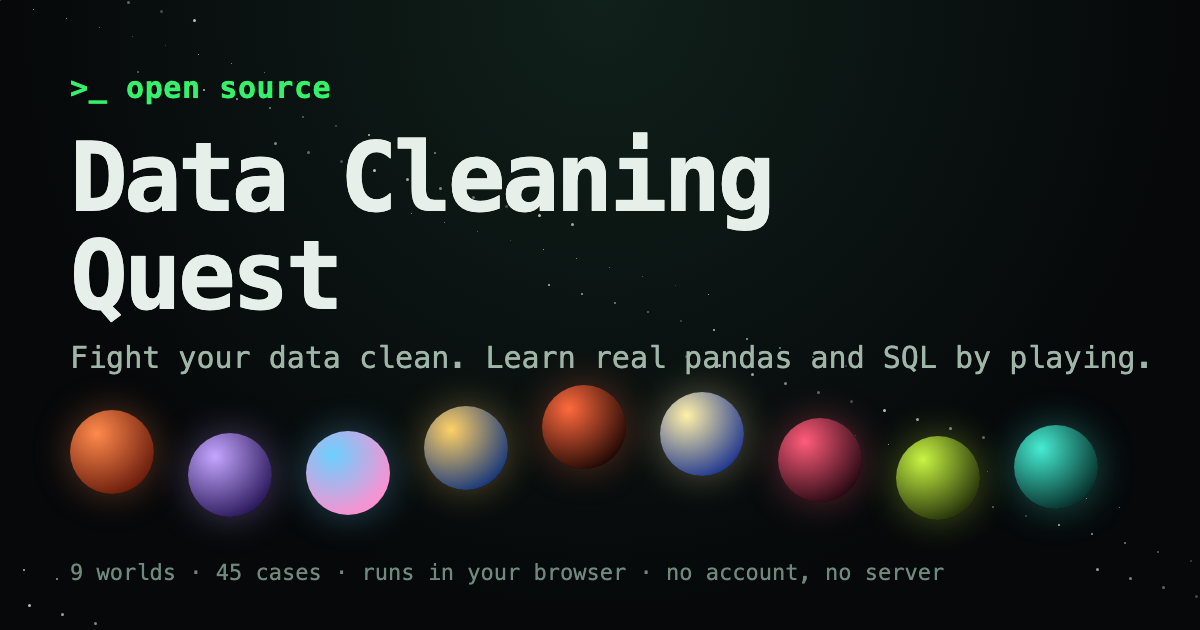
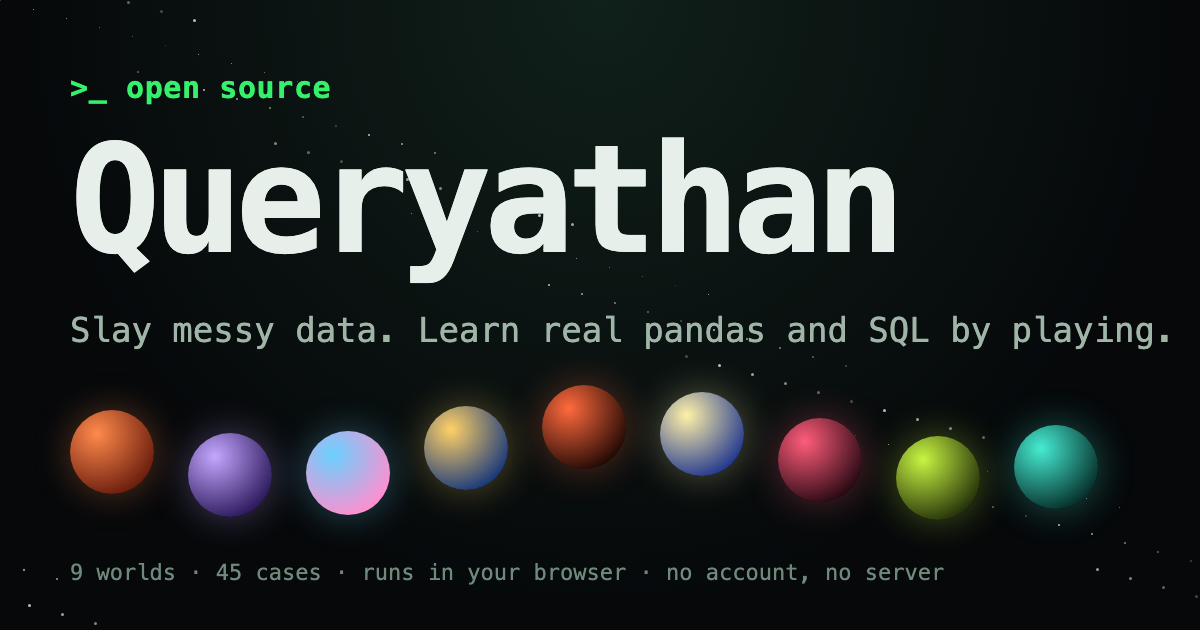
chore: rename the project to Queryathan (query + leviathan): app, docs, share images, package and repo links

Changed region(s): [[0.0617, 0.2111, 0.9867, 0.6032]]

diff --git a/apps/web/src/worlds/boss-fights/AboutDialog.tsx b/apps/web/src/worlds/boss-fights/AboutDialog.tsx
@@ -73,7 +73,7 @@ export default function AboutDialog({ onClose, onStart }: AboutDialogProps) {
       >
         <div className={styles.header}>
           <h2 id="about-title" className={styles.title}>
-            What is Data Cleaning Quest?
+            What is Queryathan?
           </h2>
           <button
             ref={closeRef}
@@ -90,12 +90,12 @@ export default function AboutDialog({ onClose, onStart }: AboutDialogProps) {
           className={styles.body}
           tabIndex={0}
           role="region"
-          aria-label="About Data Cleaning Quest"
+          aria-label="About Queryathan"
         >
           <p className={styles.lead}>
-            A free game that teaches you to clean messy data by writing real Python
-            (pandas) or SQL. Everything runs in your browser. There is no account, and
-            nothing you load is uploaded.
+            Queryathan (query + leviathan) is a free game that teaches you to clean and
+            analyse messy data by writing real Python (pandas) or SQL. Everything runs in
+            your browser. There is no account, and nothing you load is uploaded.
           </p>
 
           <section aria-labelledby="about-why">

diff --git a/apps/web/index.html b/apps/web/index.html
@@ -12,14 +12,14 @@
     <link rel="manifest" href="/manifest.webmanifest" />
     <link rel="apple-touch-icon" href="/apple-touch-icon.png" />
     <meta property="og:type" content="website" />
-    <meta property="og:title" content="Data Cleaning Quest: fight your data clean" />
+    <meta property="og:title" content="Queryathan: fight your data clean" />
     <meta
       property="og:description"
       content="Learn real pandas and SQL by playing. Nine planet worlds, 45 cases, everything runs in your browser."
     />
     <meta property="og:image" content="/og.png" />
     <meta name="twitter:card" content="summary_large_image" />
-    <title>Data Cleaning Quest</title>
+    <title>Queryathan</title>
   </head>
   <body>
     <div id="root"></div>

diff --git a/apps/web/src/worlds/boss-fights/WorldSelectScreen.tsx b/apps/web/src/worlds/boss-fights/WorldSelectScreen.tsx
@@ -81,7 +81,7 @@ function WorldCard({
   );
 }
 
-const REPO_URL = "https://github.com/Yuvakunaal/data-cleaning-quest";
+const REPO_URL = "https://github.com/Yuvakunaal/queryathan";
 const ABOUT_KEY = "dcq.aboutSeen";
 
 function readAboutSeen(): boolean {
@@ -133,7 +133,7 @@ export default function WorldSelectScreen({
             <span className={styles.brandMark} aria-hidden="true">
               &gt;_
             </span>
-            Data Cleaning Quest
+            Queryathan
           </span>
           <div className={styles.topRight}>
             <button type="button" className={styles.aboutLink} onClick={openAbout}>

diff --git a/apps/web/e2e/travel.e2e.ts b/apps/web/e2e/travel.e2e.ts
@@ -27,7 +27,7 @@ test("the flight can be skipped with the button or the keyboard", async ({ page 
   await expect(page.getByRole("heading", { name: "Geminora" })).toBeVisible();
   await expect(page.getByRole("dialog")).toHaveCount(0);
 
-  await page.getByRole("button", { name: "Data Cleaning Quest" }).click();
+  await page.getByRole("button", { name: "Queryathan" }).click();
   await page.locator('[data-world-card="the-foundry"]').click();
   await expect(
     page.getByRole("dialog", { name: /Travelling to Cinderforge/ }),

diff --git a/apps/web/e2e/smoke.e2e.ts b/apps/web/e2e/smoke.e2e.ts
@@ -39,7 +39,7 @@ test.describe("What is this?", () => {
     await expect(page.getByText("Start here")).toBeVisible();
     const opener = page.getByRole("button", { name: /What is this\?/ }).nth(1);
     await opener.click();
-    const dialog = page.getByRole("dialog", { name: /What is Data Cleaning Quest/ });
+    const dialog = page.getByRole("dialog", { name: /What is Queryathan/ });
     await expect(dialog).toBeVisible();
     for (const heading of [
       "Why clean data?",

diff --git a/apps/web/src/worlds/boss-fights/BossFightScreen.tsx b/apps/web/src/worlds/boss-fights/BossFightScreen.tsx
@@ -1362,7 +1362,7 @@ export default function BossFightScreen({
           getSolution={() => {
             const code = codeEditorRef.current?.getValue() ?? "";
             const mark = engine === "sql" ? "--" : "#";
-            return `${mark} Data Cleaning Quest: ${caseData.strings.title}\n${code}\n`;
+            return `${mark} Queryathan: ${caseData.strings.title}\n${code}\n`;
           }}
           onContinue={() => {
             setShowVictory(false);

diff --git a/apps/web/e2e/editor.e2e.ts b/apps/web/e2e/editor.e2e.ts
@@ -221,7 +221,7 @@ test.describe("the win sequence", () => {
     await expect(dialog).toContainText("Copied your solution");
     const copied = await page.evaluate(() => navigator.clipboard.readText());
     expect(copied).toContain(code);
-    expect(copied.startsWith("# Data Cleaning Quest:")).toBe(true);
+    expect(copied.startsWith("# Queryathan:")).toBe(true);
   });
 
   test("a speed job earns a stamp that the roster keeps", async ({ page }) => {

diff --git a/apps/web/src/ErrorBoundary.tsx b/apps/web/src/ErrorBoundary.tsx
@@ -19,7 +19,7 @@ export default class ErrorBoundary extends Component<{ children: ReactNode }, St
 
   override componentDidCatch(error: Error, info: ErrorInfo): void {
     // Kept for anyone with the console open; nothing is sent anywhere.
-    console.error("Data Cleaning Quest hit an error", error, info.componentStack);
+    console.error("Queryathan hit an error", error, info.componentStack);
   }
 
   override render(): ReactNode {

diff --git a/apps/web/e2e/navigation.e2e.ts b/apps/web/e2e/navigation.e2e.ts
@@ -12,7 +12,7 @@ test("the browser's Back and Forward buttons move between screens", async ({ pag
   await expect(
     page.getByRole("heading", { name: /Fight your data clean/ }),
   ).toBeVisible();
-  await expect(page).toHaveTitle("Data Cleaning Quest");
+  await expect(page).toHaveTitle("Queryathan");
   await page.goForward();
   await expect(page.getByRole("heading", { name: "Cryptara" })).toBeVisible();
 });

diff --git a/apps/web/src/worlds/boss-fights/WorldMapScreen.tsx b/apps/web/src/worlds/boss-fights/WorldMapScreen.tsx
@@ -147,7 +147,7 @@ export default function WorldMapScreen({
               &gt;_
             </span>
             <button type="button" className={styles.backLink} onClick={onBack}>
-              Data Cleaning Quest
+              Queryathan
             </button>
           </span>
           <A11yControls a11y={a11y} onChange={onA11yChange} />

diff --git a/apps/web/src/App.tsx b/apps/web/src/App.tsx
@@ -185,7 +185,7 @@ function AppScreens() {
         : screen.name === "hub"
           ? null
           : "Sandbox";
-    document.title = where ? `${where} · Data Cleaning Quest` : "Data Cleaning Quest";
+    document.title = where ? `${where} · Queryathan` : "Queryathan";
   }, [screen]);
 
   function updateSave(next: SaveData): void {

diff --git a/apps/web/public/sw.js b/apps/web/public/sw.js
@@ -1,5 +1,5 @@
 /*
-  Offline cache for Data Cleaning Quest. Registered only in production builds
+  Offline cache for Queryathan. Registered only in production builds
   (src/registerServiceWorker.ts). The two tokens below are filled in by the
   Vite build (vite.config.ts).
 
